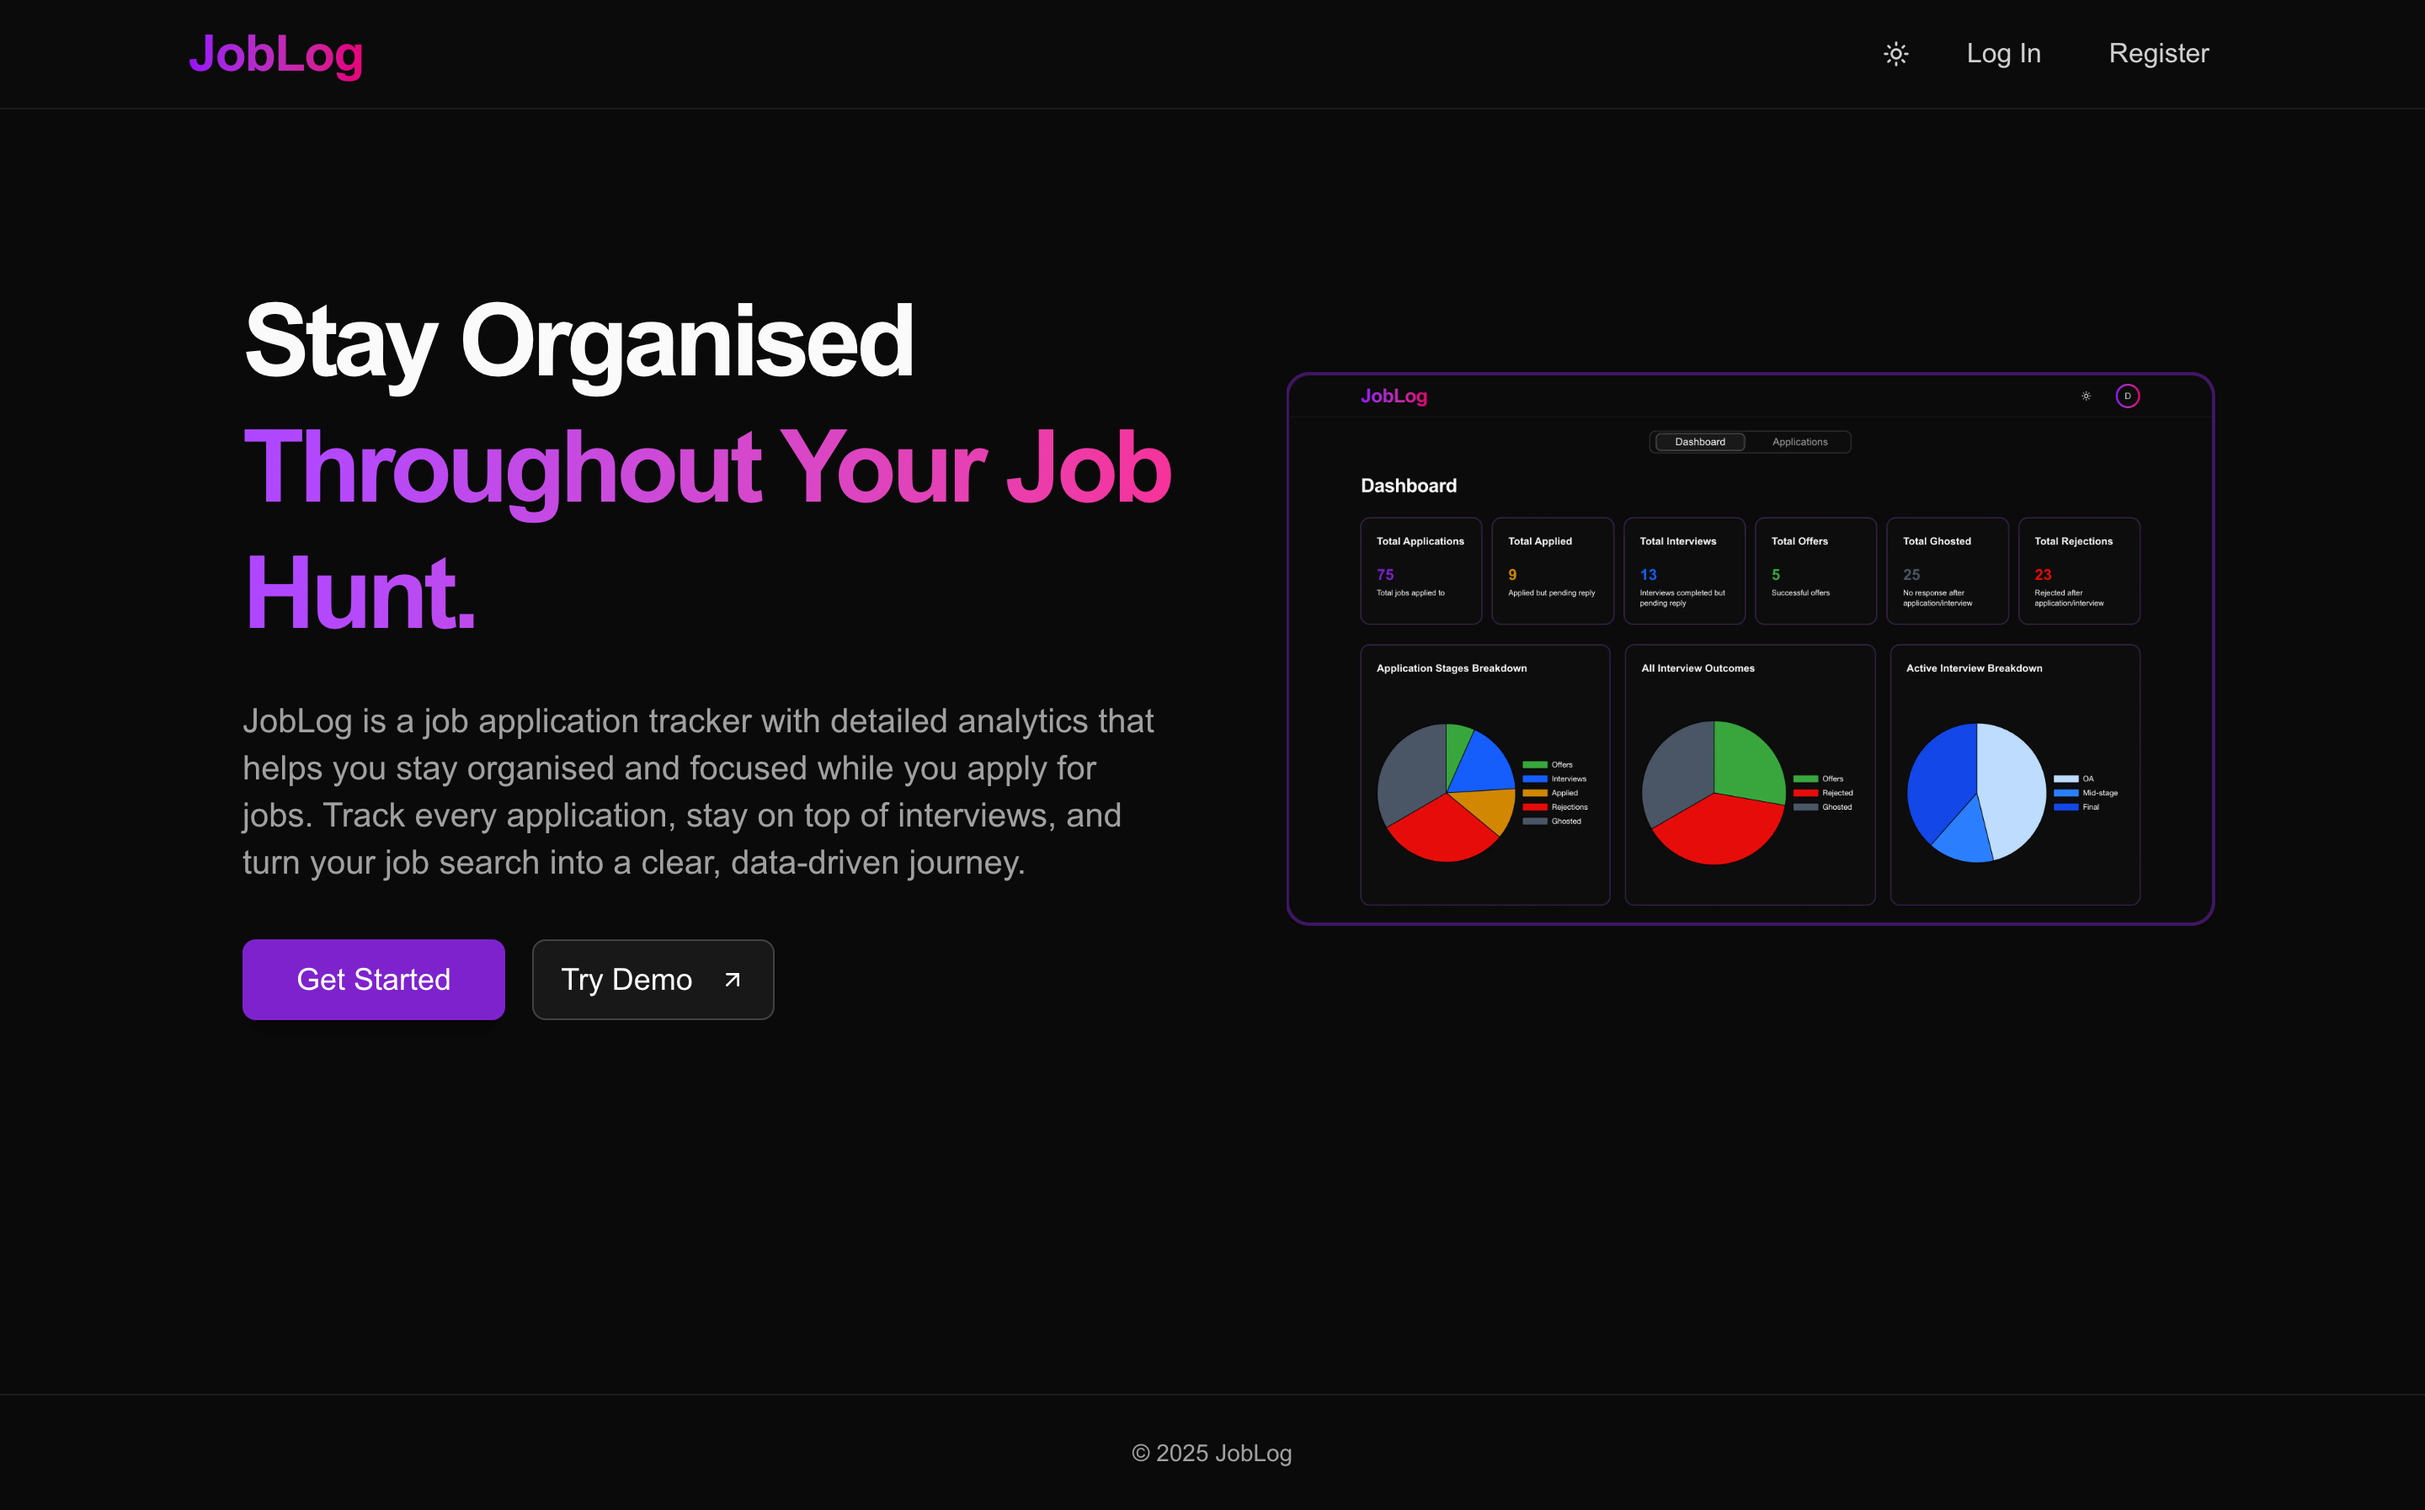
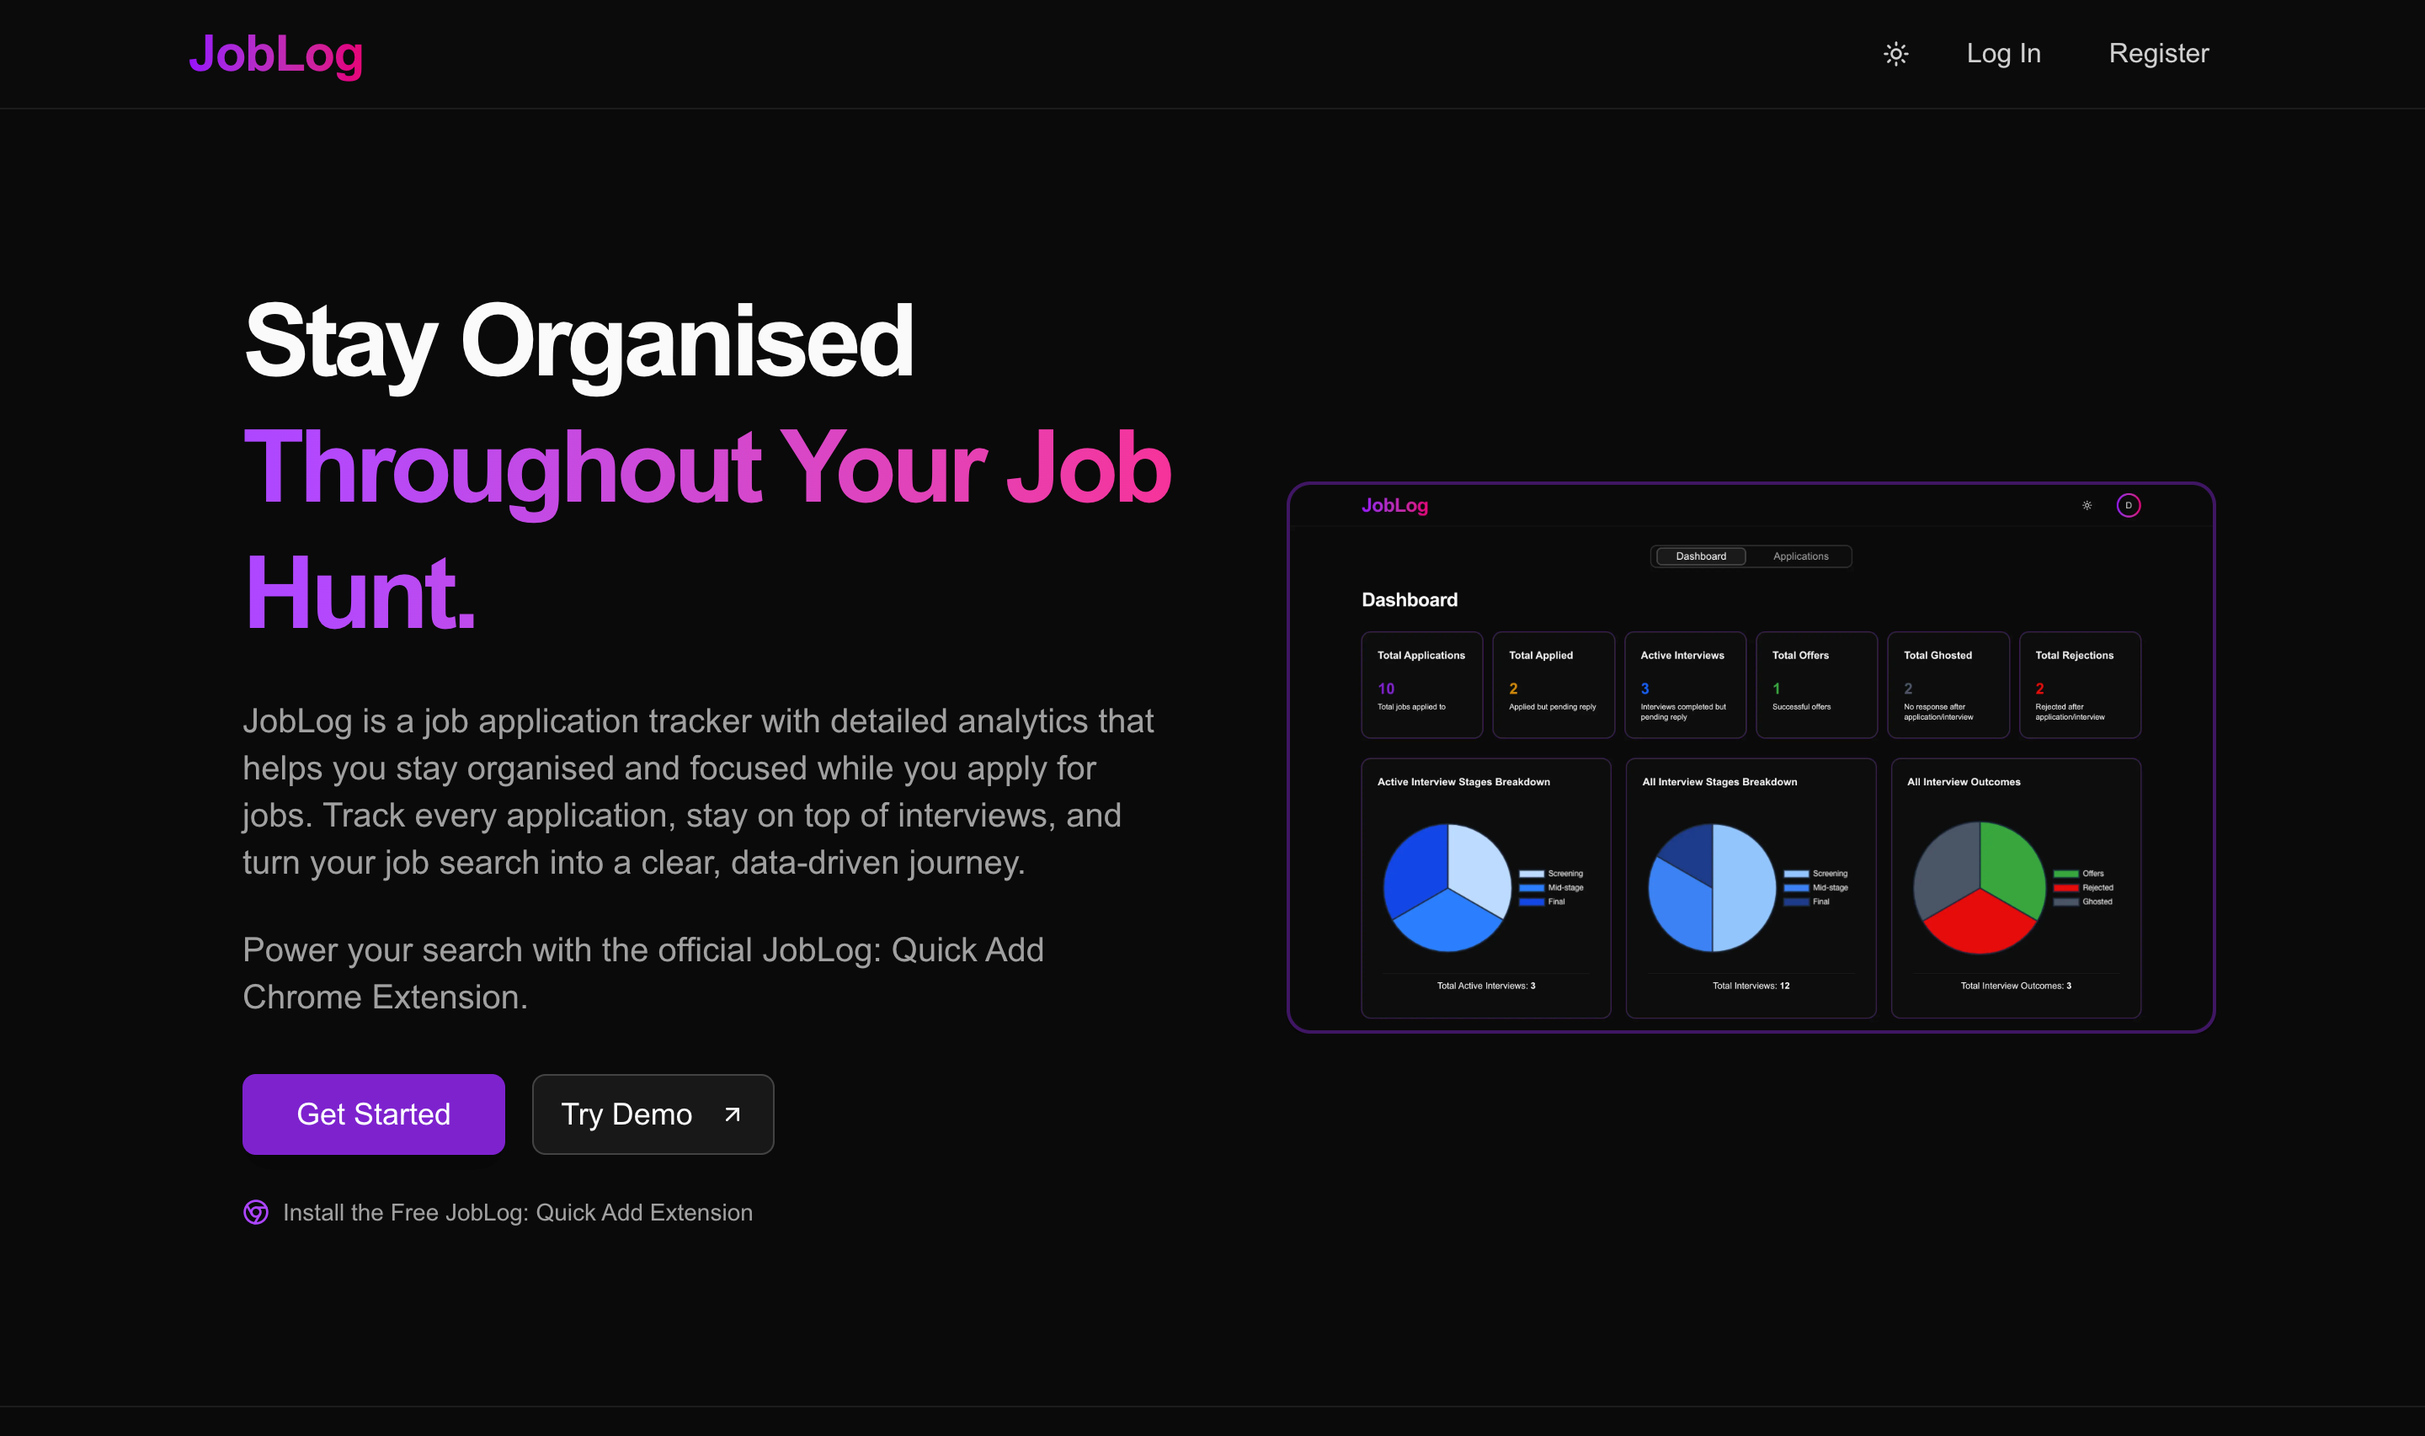
updated JobLog write up and images

diff --git a/src/components/AboutMeSection.tsx b/src/components/AboutMeSection.tsx
@@ -12,7 +12,7 @@ export function AboutMeSection() {
         <p>
           My foundation is built on hands-on experience, including an internship as a <span className="text-foreground">Software Development Intern at Woofya</span>. There, I contributed to a gamified PWA by implementing core features like onboarding and profile setup, integrating Firebase Auth and Directus APIs into a <span className="text-foreground">PHP codebase</span>. I&apos;m also particularly proud of <span className="text-foreground">TeachTeam</span>, a full-stack platform I built using <span className="text-foreground">React and Node.js</span> for managing university teaching teams, complete with secure, role-based dashboards and admin reporting.</p>
         <p>
-          Most recently, I completed <span className="text-foreground">JobLog</span>, a full-stack job application tracker and analytics dashboard built with <span className="text-foreground">C#, ASP.NET, PostgreSQL, and React/Next.js</span>. It helps users manage and analyse their job search journey with features like filtering, sorting, and trend visualisations powered by <span className="text-foreground">Chart.js</span>. Deployed via <span className="text-foreground">Vercel</span> and <span className="text-foreground">Google Cloud Run</span>, JobLog focuses on clarity, automation, and user experience. It also includes a <span className="text-foreground">Chrome browser extension</span> that automatically captures job listings and syncs them directly into the tracker.
+          Most recently, I completed <span className="text-foreground">JobLog</span>, a full-stack job application tracker and analytics dashboard built with <span className="text-foreground">C#, ASP.NET, PostgreSQL, and React/Next.js</span>. It helps users manage and analyse their job search journey with features like filtering, sorting, and trend visualisations powered by <span className="text-foreground">Chart.js</span>. Deployed via <span className="text-foreground">Vercel</span> and <span className="text-foreground">Azure Container Apps</span>, JobLog focuses on clarity, automation, and user experience. It also includes a <span className="text-foreground">Chrome browser extension</span> that automatically captures job listings and syncs them directly into the tracker.
         </p>
 
         <p>

diff --git a/src/components/ProjectsSection.tsx b/src/components/ProjectsSection.tsx
@@ -10,8 +10,8 @@ const projectsData = [
     title: "JobLog - Job Application Tracker with Analytics",
     image: "/images/joblog.png",
     lightImage: "/images/joblog_light.png",
-    description: "A modern, full-stack platform that helps users track and analyse their job applications across multiple platforms. Includes features like filtering, sorting, and searching applications; an analytics dashboard with key metrics showing outcomes and trends to help visualise your job hunting journey; and secure JWT-based authentication. Designed with dark and light modes and fully responsive across devices. Includes Chrome extension for automatic job data capture. Built with React, Next.js, shadcn/ui, and Chart.js on the frontend, and C#/.NET (ASP.NET) with a model-services-controllers architecture, Entity Framework Core, and PostgreSQL on the backend. Deployed using Docker containers on Google Cloud Run (backend), Neon (database), and Vercel (frontend).",
-    tech: ["React", "Next.js", "TypeScript", "shadcn/ui", "Chart.js", "C#/.NET (ASP.NET)", "Entity Framework Core", "PostgreSQL", "Docker", "Google Cloud Run", "Vercel"],
+    description: "A modern, full-stack platform that helps users track and analyse their job applications across multiple platforms. Includes features like filtering, sorting, and searching applications; an analytics dashboard with key metrics showing outcomes and trends to help visualise your job hunting journey; and secure JWT-based authentication. Designed with dark and light modes and fully responsive across devices. Includes Chrome extension for automatic job data capture. Built with React, Next.js, shadcn/ui, and Chart.js on the frontend, and C#/.NET (ASP.NET) with a model-services-controllers architecture, Entity Framework Core, and PostgreSQL on the backend. Deployed using Docker containers on Azure Container Apps (backend), Neon (database), and Vercel (frontend).",
+    tech: ["React", "Next.js", "TypeScript", "shadcn/ui", "Chart.js", "C#/.NET (ASP.NET)", "Entity Framework Core", "PostgreSQL", "Docker", "Azure Container Apps", "Vercel"],
     live: "https://joblog.athulthampan.com/",
     repo: "https://github.com/athul-tmp/JobLog"
   },
